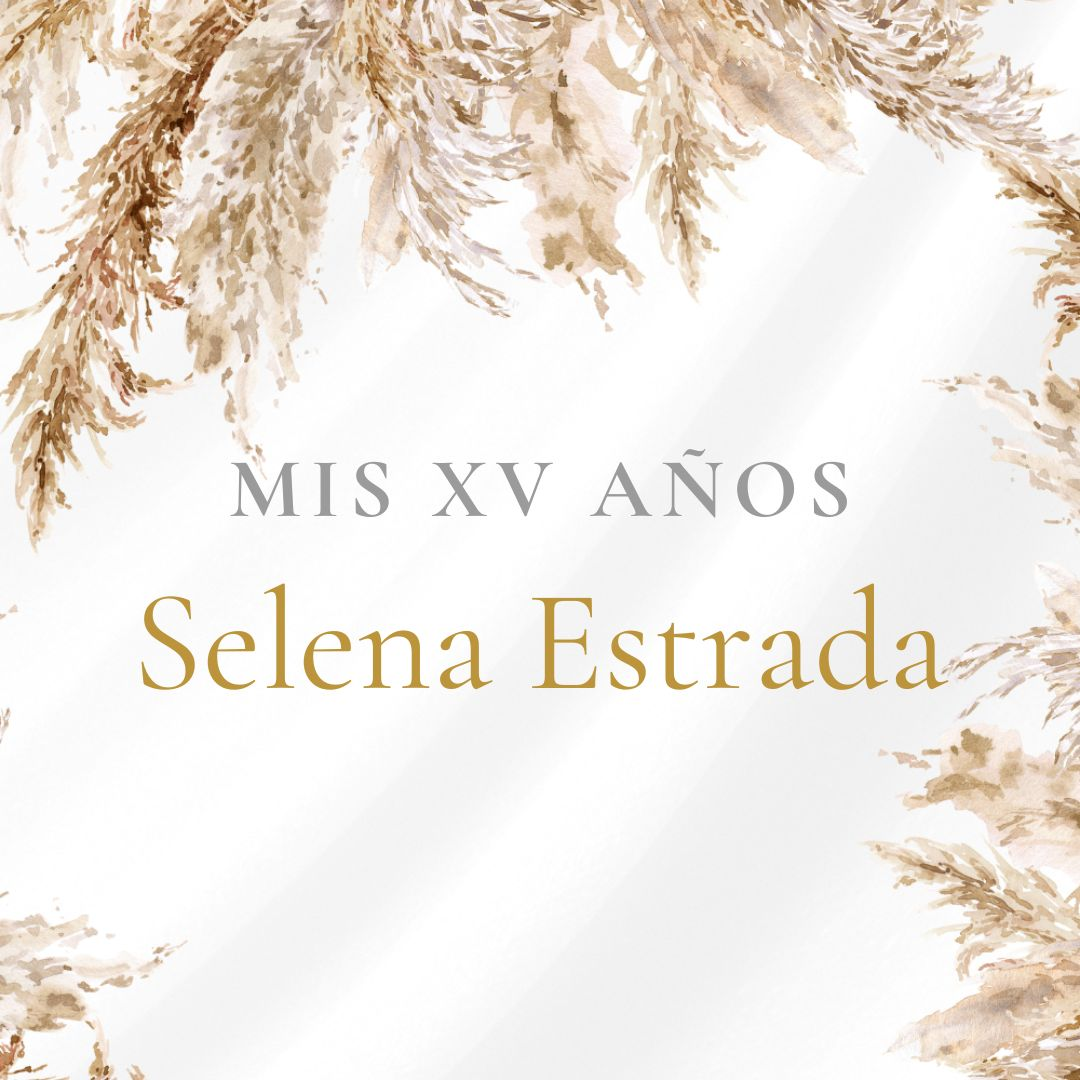
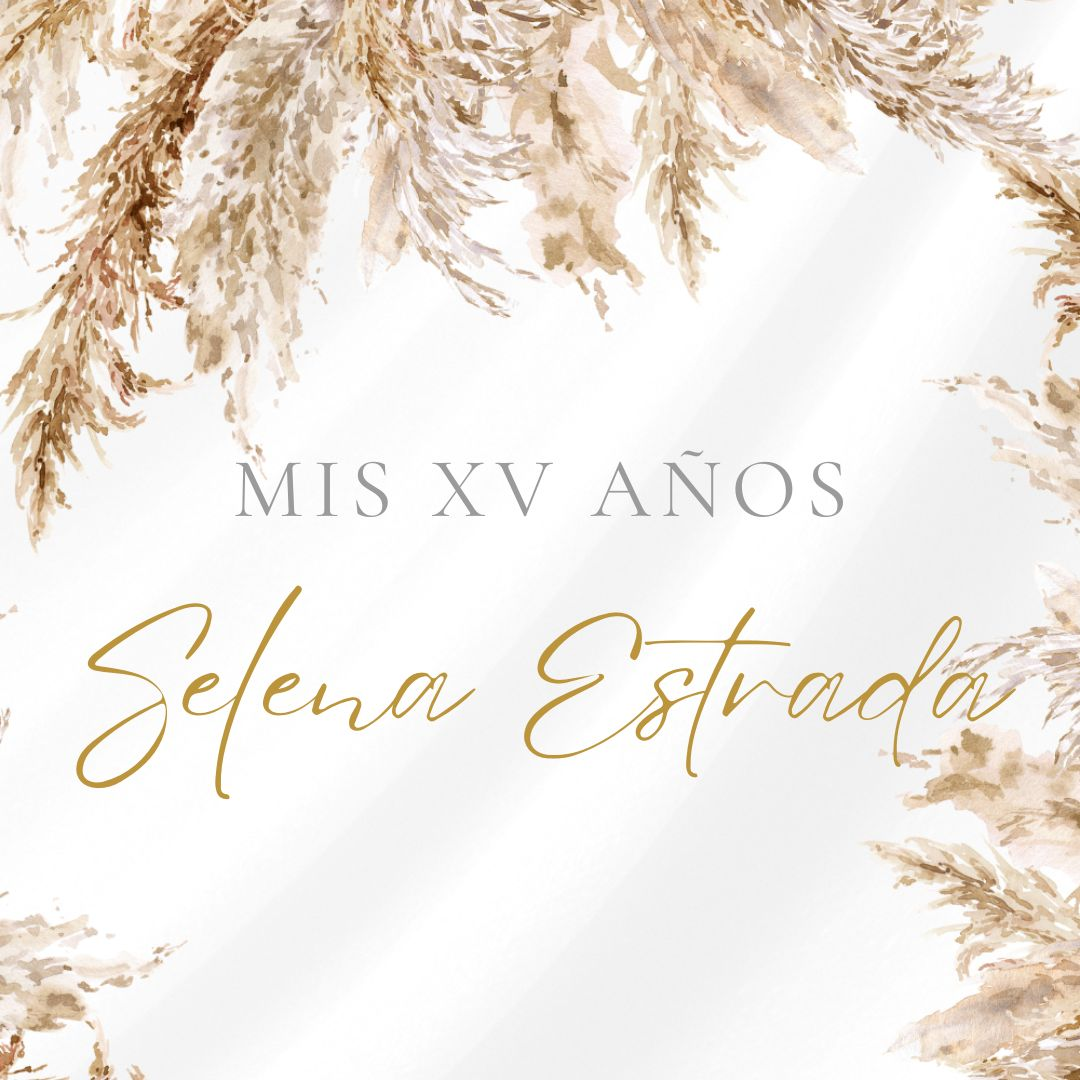
Add files via upload

diff --git a/inicio.html b/inicio.html
@@ -162,11 +162,12 @@ $(document).ready(function(){
 
                     <div class="row justify-content-center" style="margin:0 auto;">
 
-                        <h4 class='nuestraBoda col-12 col-lg-12 text-center' id="barraFria"><b>MIS XV AÑOS </b></h4>
+                        <h4 class='nuestraBoda col-12 col-lg-12 text-center' id="barraFria">MIS XV AÑOS</h4>
                         <div class="text-center " > 
         
     </div>   
-                         <h5 class='nombres col-lg-12 text-center' >Selena Estrada</h5> 
+                         <!--<h5 class='nombres col-lg-12 text-center' >Selena Estrada</h5>-->
+                         <img class="nombres col-12 col-md-2 " id="leon" style="" src="img/nombre.png" > 
                         <!-- <div class="row justify-content-center col-12" style="margin: 0 auto" >
                          <img class="leon col-4 col-md-2 " id="leon" style="" src="img/leon3.png" >
                      </div>-->
